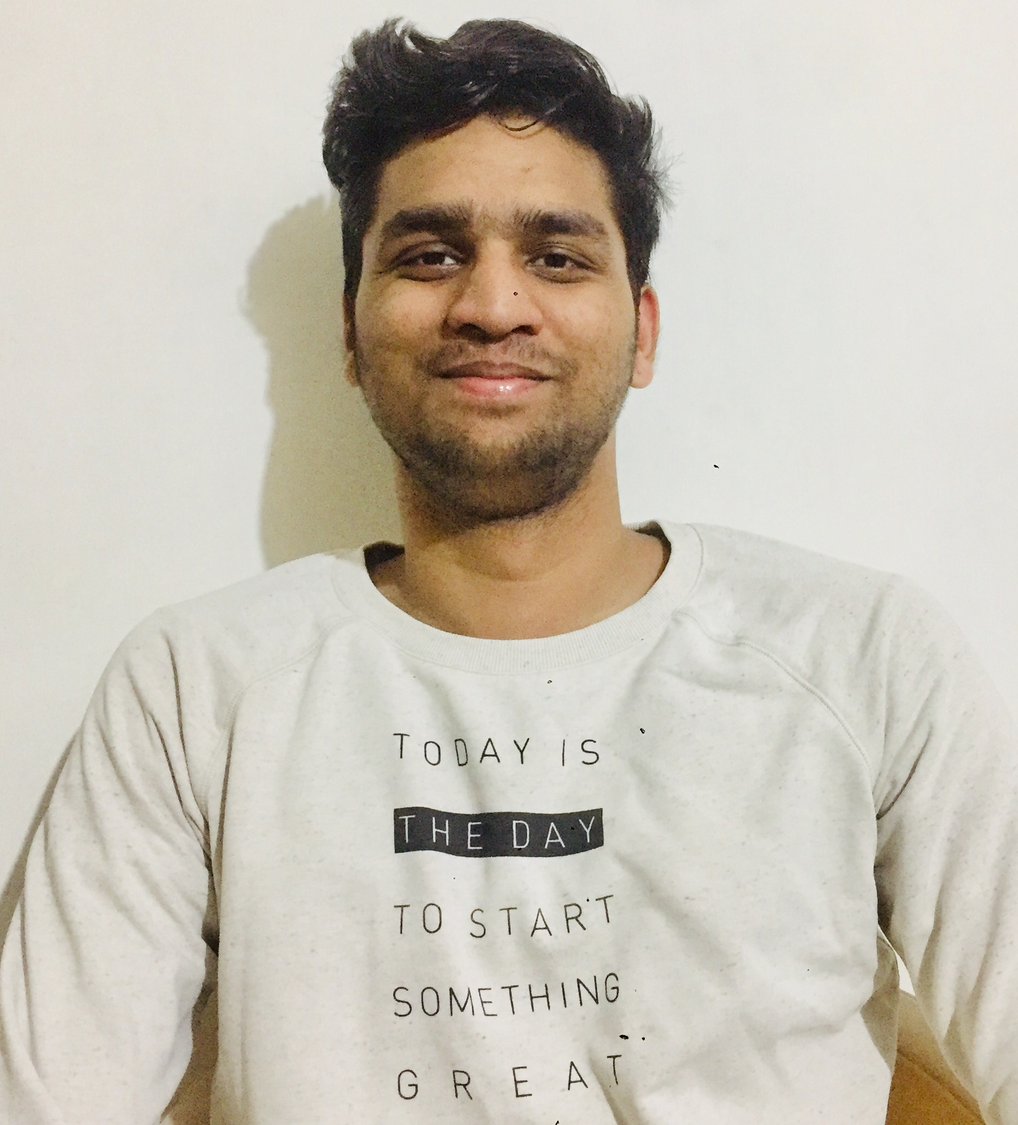
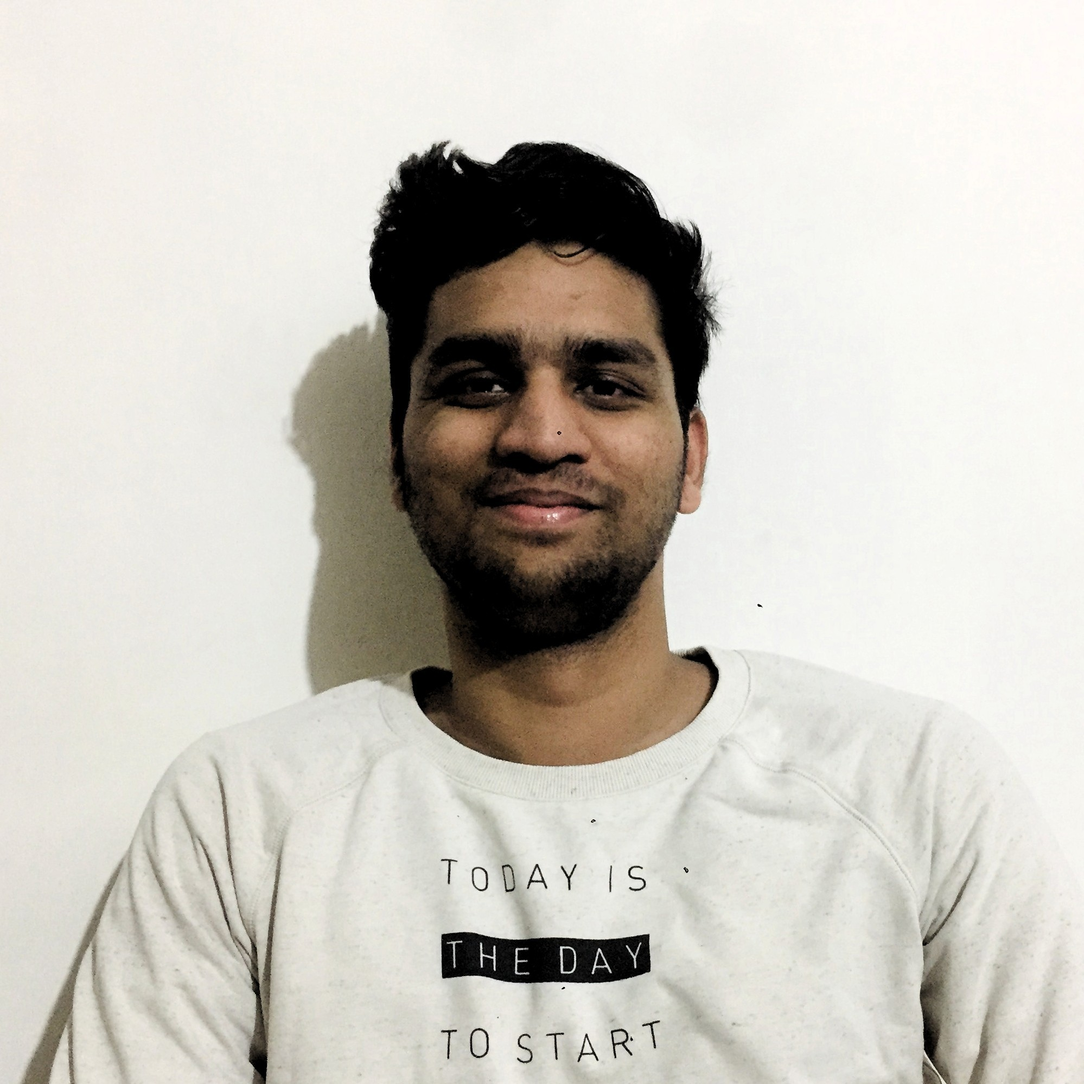
meta tags updated.

diff --git a/index.html b/index.html
@@ -6,11 +6,14 @@
     <title>Devendra Patra</title>
     <link rel="stylesheet" href="https://cdnjs.cloudflare.com/ajax/libs/font-awesome/4.7.0/css/font-awesome.min.css">
     <link href="css/main.css" rel="stylesheet">
+     <meta  name="description" content="A portfolio for Devendra Patra"/>
+      <meta name="keywords" content="web development,Backend Development,Node.js,Express"/>
+      <meta name="mobile-web-app-capable" content="yes"/>
 </head>
 <body>
     <header class="site-header">
         <div class="profile1">
-            <img class="profile-img" src="css/profile_pic.png">
+            <img class="profile-img" src="css/profile_pic.jpg">
         </div>
     <div class="site-header-content">
             
